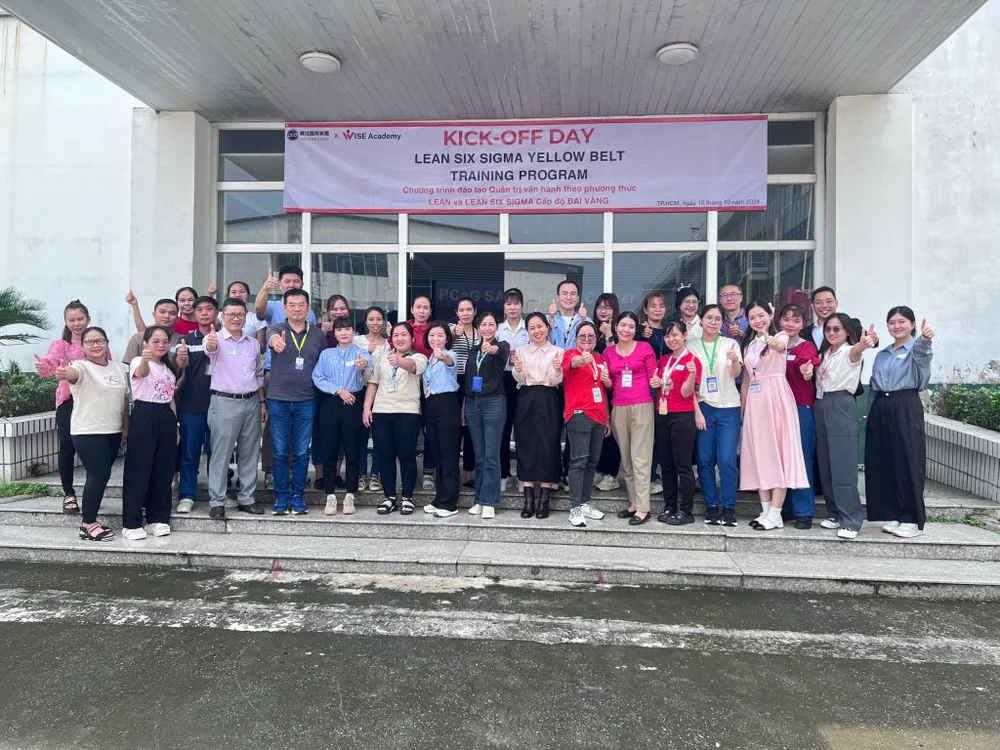
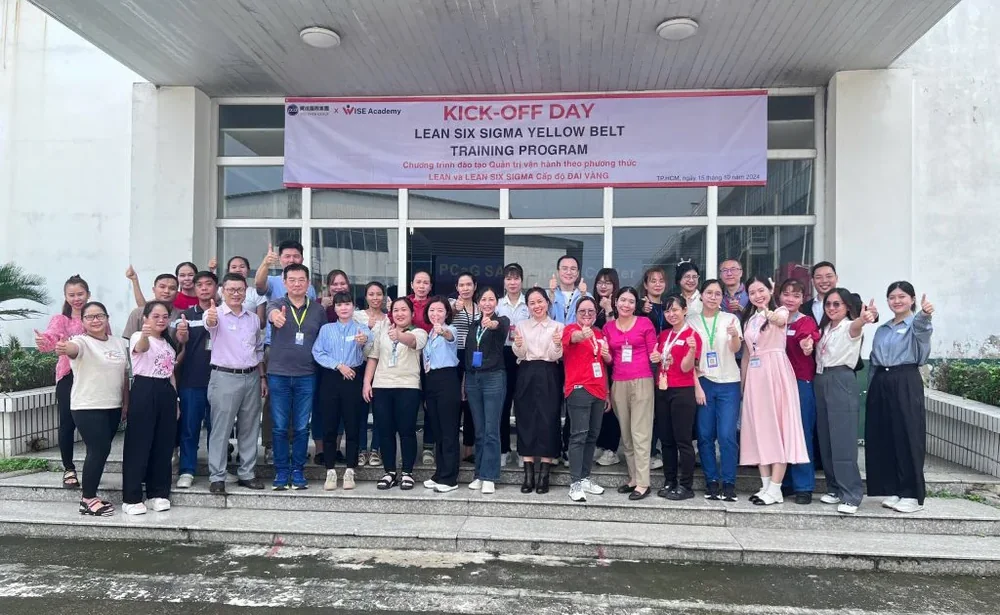
Projects: add Apache Lean Fundamental & Kaizen Mindset; crop Pou Chen kick-off photo; covers at natural proportions

diff --git a/src/app/du-an/page.tsx b/src/app/du-an/page.tsx
@@ -29,8 +29,9 @@ export default function ProjectsPage() {
         <section key={proj.id} id={proj.id} className={`${idx % 2 ? "bg-[#F8F9FA]" : "bg-white"} py-16 lg:py-20 px-4 sm:px-6 scroll-mt-24`}>
           <div className="max-w-6xl mx-auto grid grid-cols-1 lg:grid-cols-2 gap-x-12 lg:gap-x-16 gap-y-10 items-start">
             <div className={idx % 2 ? "lg:order-2" : "lg:order-1"}>
-              <div className="rounded-2xl overflow-hidden aspect-[4/3] bg-slate-100">
-                <img src={proj.cover || proj.gallery?.[0]} alt={`Dự án ${proj.client}`} className="w-full h-full object-cover" loading="lazy" />
+              {/* shown at the photo's own proportions, so wide group photos are never cut at the sides */}
+              <div className="rounded-2xl overflow-hidden bg-slate-100">
+                <img src={proj.cover || proj.gallery?.[0]} alt={`Dự án ${proj.client}`} className="block w-full h-auto" loading="lazy" />
               </div>
               {proj.gallery && proj.gallery.length > 1 && (
                 <div className="mt-3 grid grid-cols-3 gap-3">
